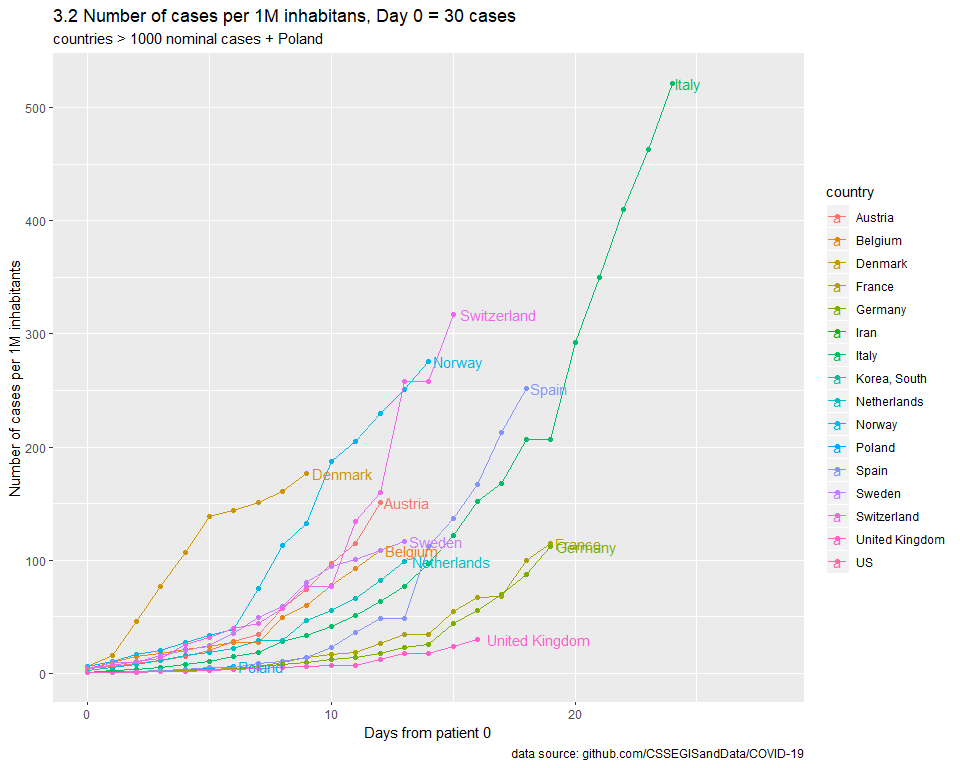
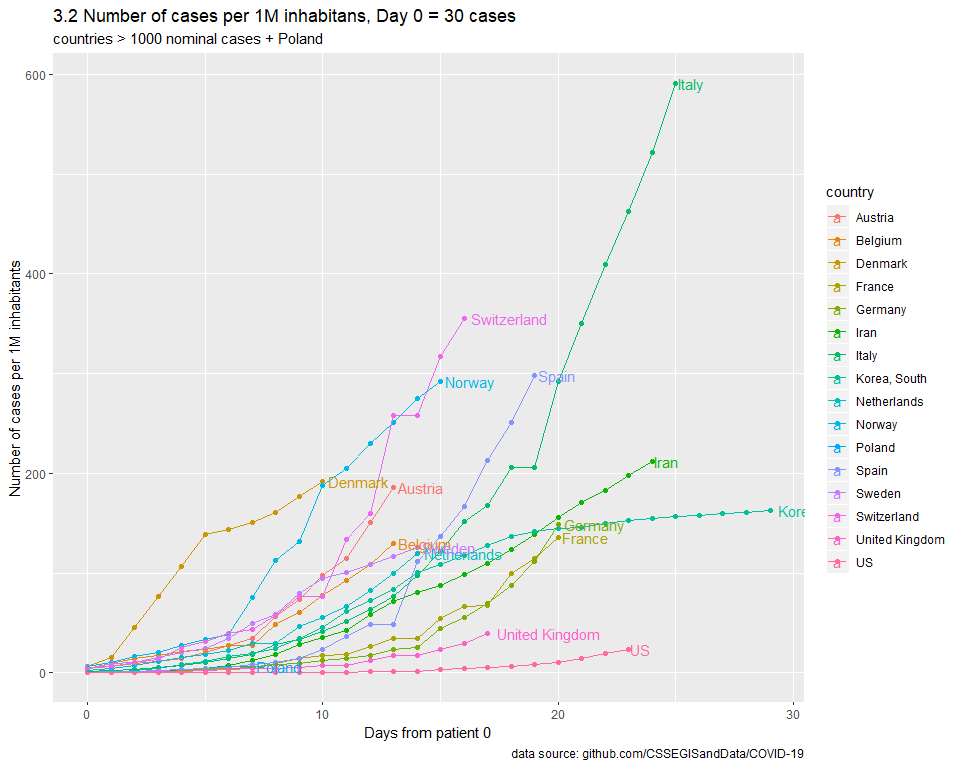
number of tests data&analysis

diff --git a/main.md b/main.md
@@ -37,6 +37,9 @@ build_data <- function(START_CASES_NO = 1, MIN_CASES = 1000, MAX_CASES = Inf, CH
     select(-value) %>% 
     rename(date_first = date)
   
+  tests <- fread("tests.csv", header = TRUE) %>%
+    mutate(date = as.Date(date, format = "%d.%m.%y"))
+  
   conf <- 
     data_conf %>% 
     left_join(., conf_first) %>% 
@@ -44,6 +47,9 @@ build_data <- function(START_CASES_NO = 1, MIN_CASES = 1000, MAX_CASES = Inf, CH
     filter(days >=0) %>% 
     left_join(., population) %>% 
     mutate(value_per_1M = value/pop) %>%
+    left_join(., tests) %>%
+    mutate(tests_per_1M = tests/pop) %>%
+    mutate(cases_per_test = value/tests) %>%
     select(-date, -date_first, -pop)
 
   conf_filtered <- 
@@ -69,3 +75,10 @@ build_data <- function(START_CASES_NO = 1, MIN_CASES = 1000, MAX_CASES = Inf, CH
 ![](main_files/figure-gfm/unnamed-chunk-7-1.png)<!-- -->
 
 ![](main_files/figure-gfm/unnamed-chunk-8-1.png)<!-- -->
+
+### Rates:
+
+Idea:
+<https://ourworldindata.org/grapher/tests-vs-confirmed-cases-covid-19-per-million>
+
+![](main_files/figure-gfm/unnamed-chunk-9-1.png)<!-- -->
